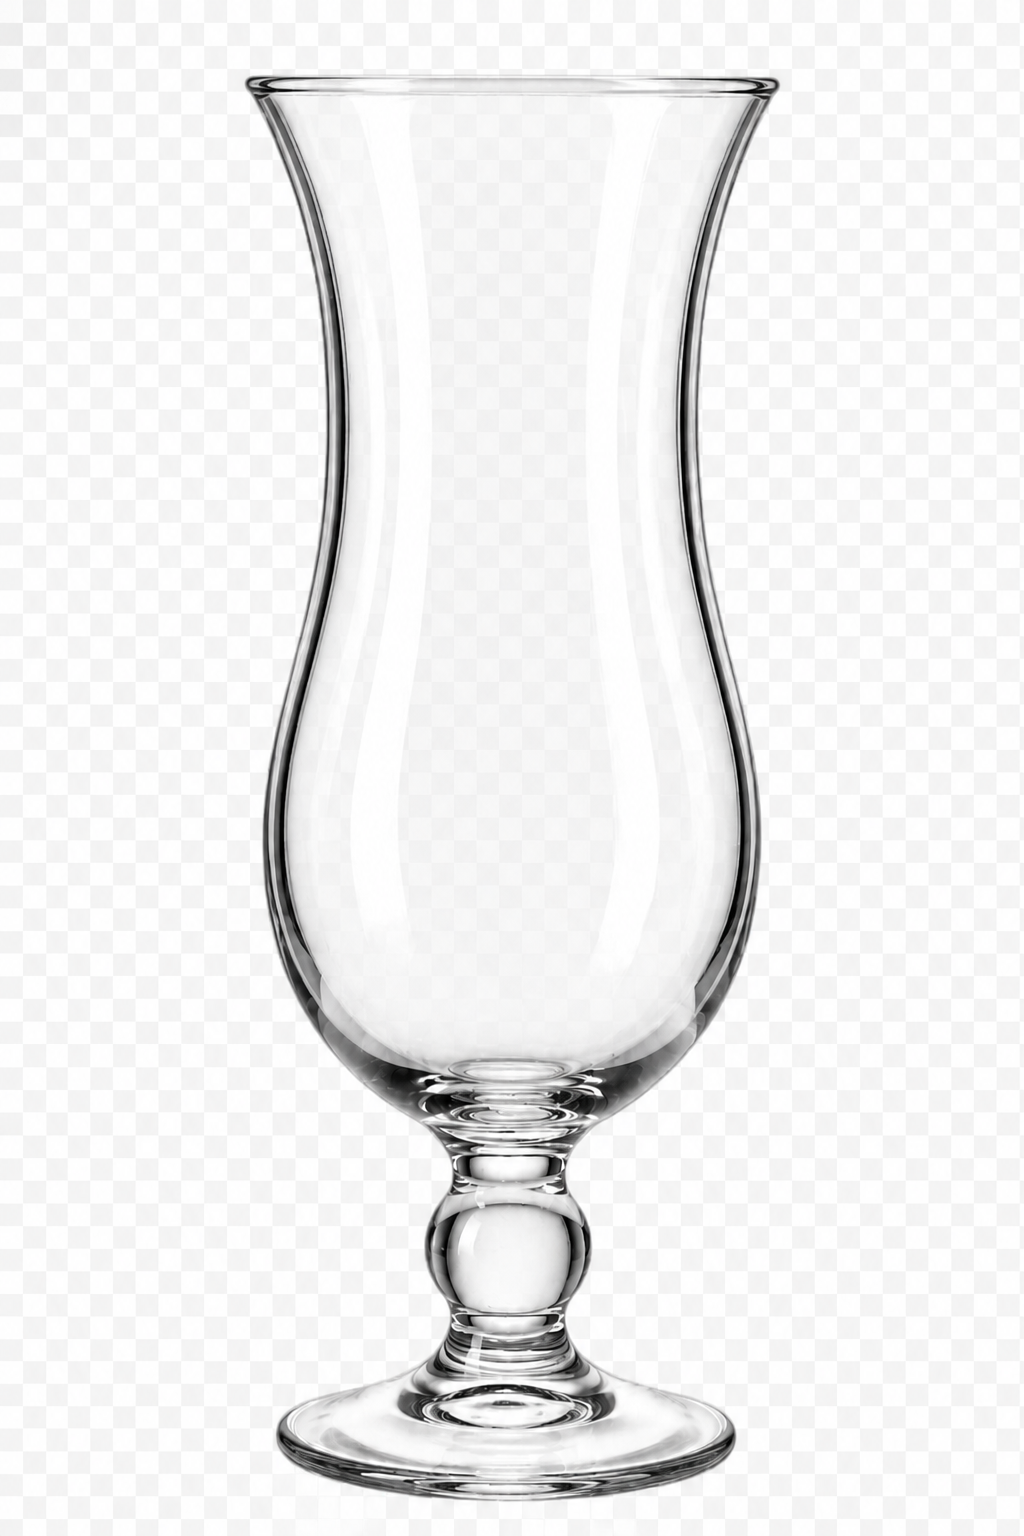
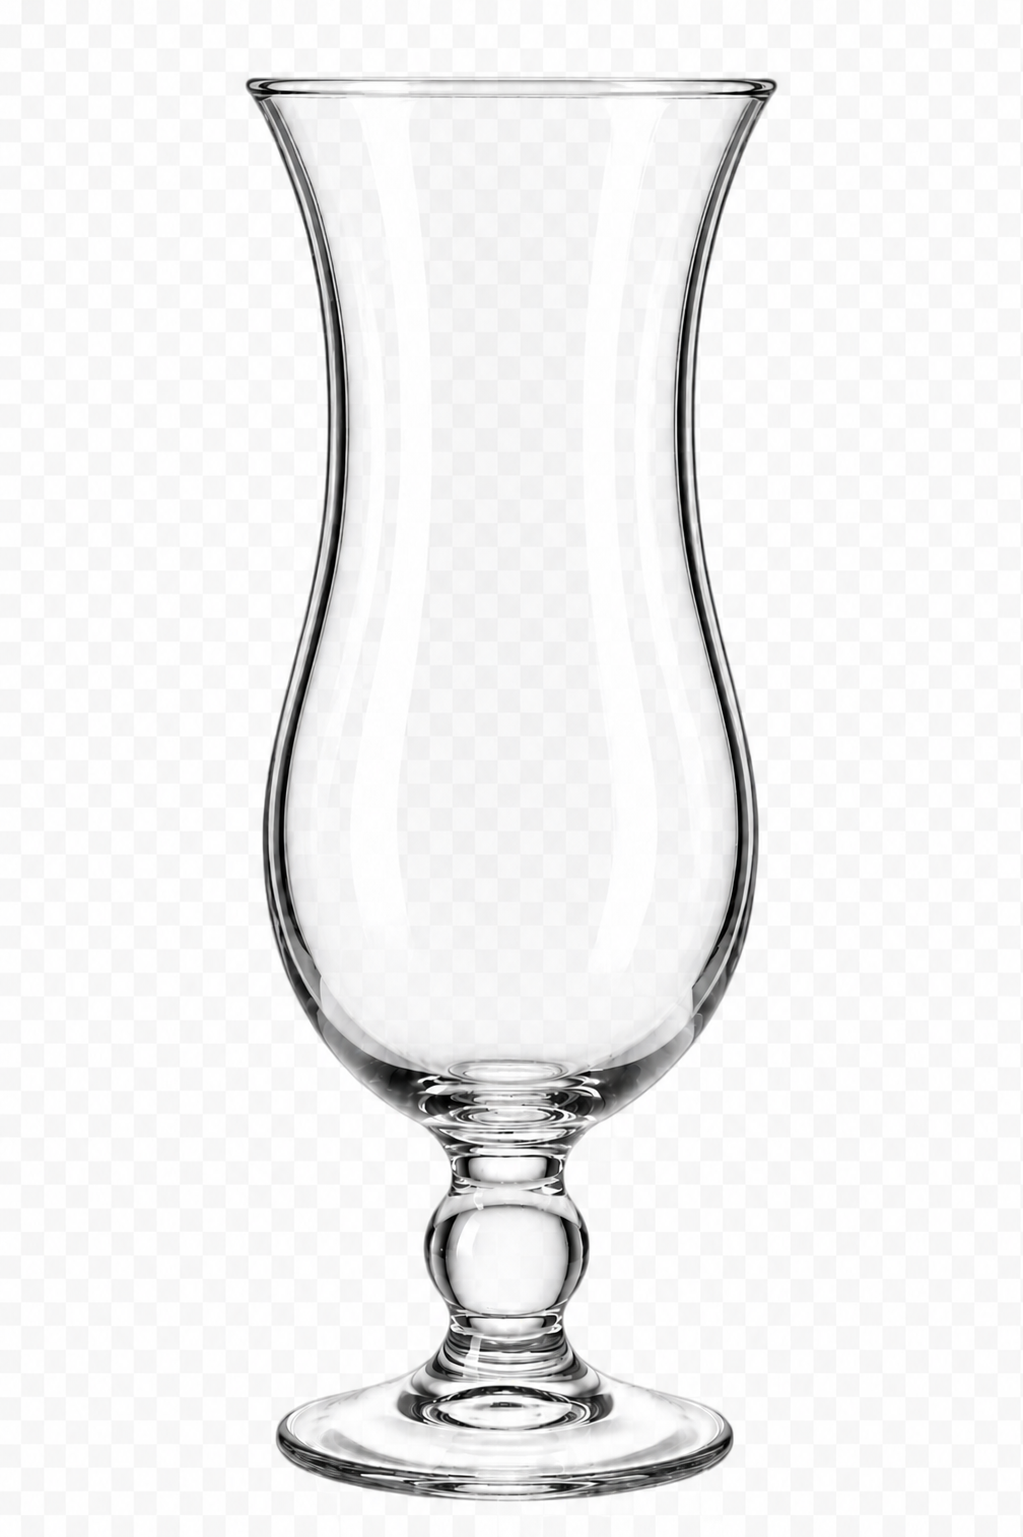
glass and image function

diff --git a/src/components/DrinkVisual.tsx b/src/components/DrinkVisual.tsx
@@ -1,4 +1,4 @@
-import { Image, StyleSheet, type ImageSourcePropType } from 'react-native';
+import { Image, StyleSheet, type ImageResizeMode, type ImageSourcePropType } from 'react-native';
 
 import type { Drink } from '../data/bartending';
 import { DrinkArtwork } from './DrinkArtwork';
@@ -6,13 +6,14 @@ import { DrinkArtwork } from './DrinkArtwork';
 type DrinkVisualProps = {
   drink: Drink;
   size?: number;
+  resizeMode?: ImageResizeMode;
 };
 
 const LOCAL_DRINK_IMAGES: Record<NonNullable<Drink['imageAsset']>, ImageSourcePropType> = {
   hugo: require('../../assets/hugo.jpg'),
 };
 
-export function DrinkVisual({ drink, size = 124 }: DrinkVisualProps) {
+export function DrinkVisual({ drink, size = 124, resizeMode = 'cover' }: DrinkVisualProps) {
   if (drink.imageAsset) {
     return (
       <Image
@@ -25,6 +26,7 @@ export function DrinkVisual({ drink, size = 124 }: DrinkVisualProps) {
             borderRadius: Math.round(size * 0.23),
           },
         ]}
+        resizeMode={resizeMode}
       />
     );
   }
@@ -41,6 +43,7 @@ export function DrinkVisual({ drink, size = 124 }: DrinkVisualProps) {
             borderRadius: Math.round(size * 0.23),
           },
         ]}
+        resizeMode={resizeMode}
       />
     );
   }